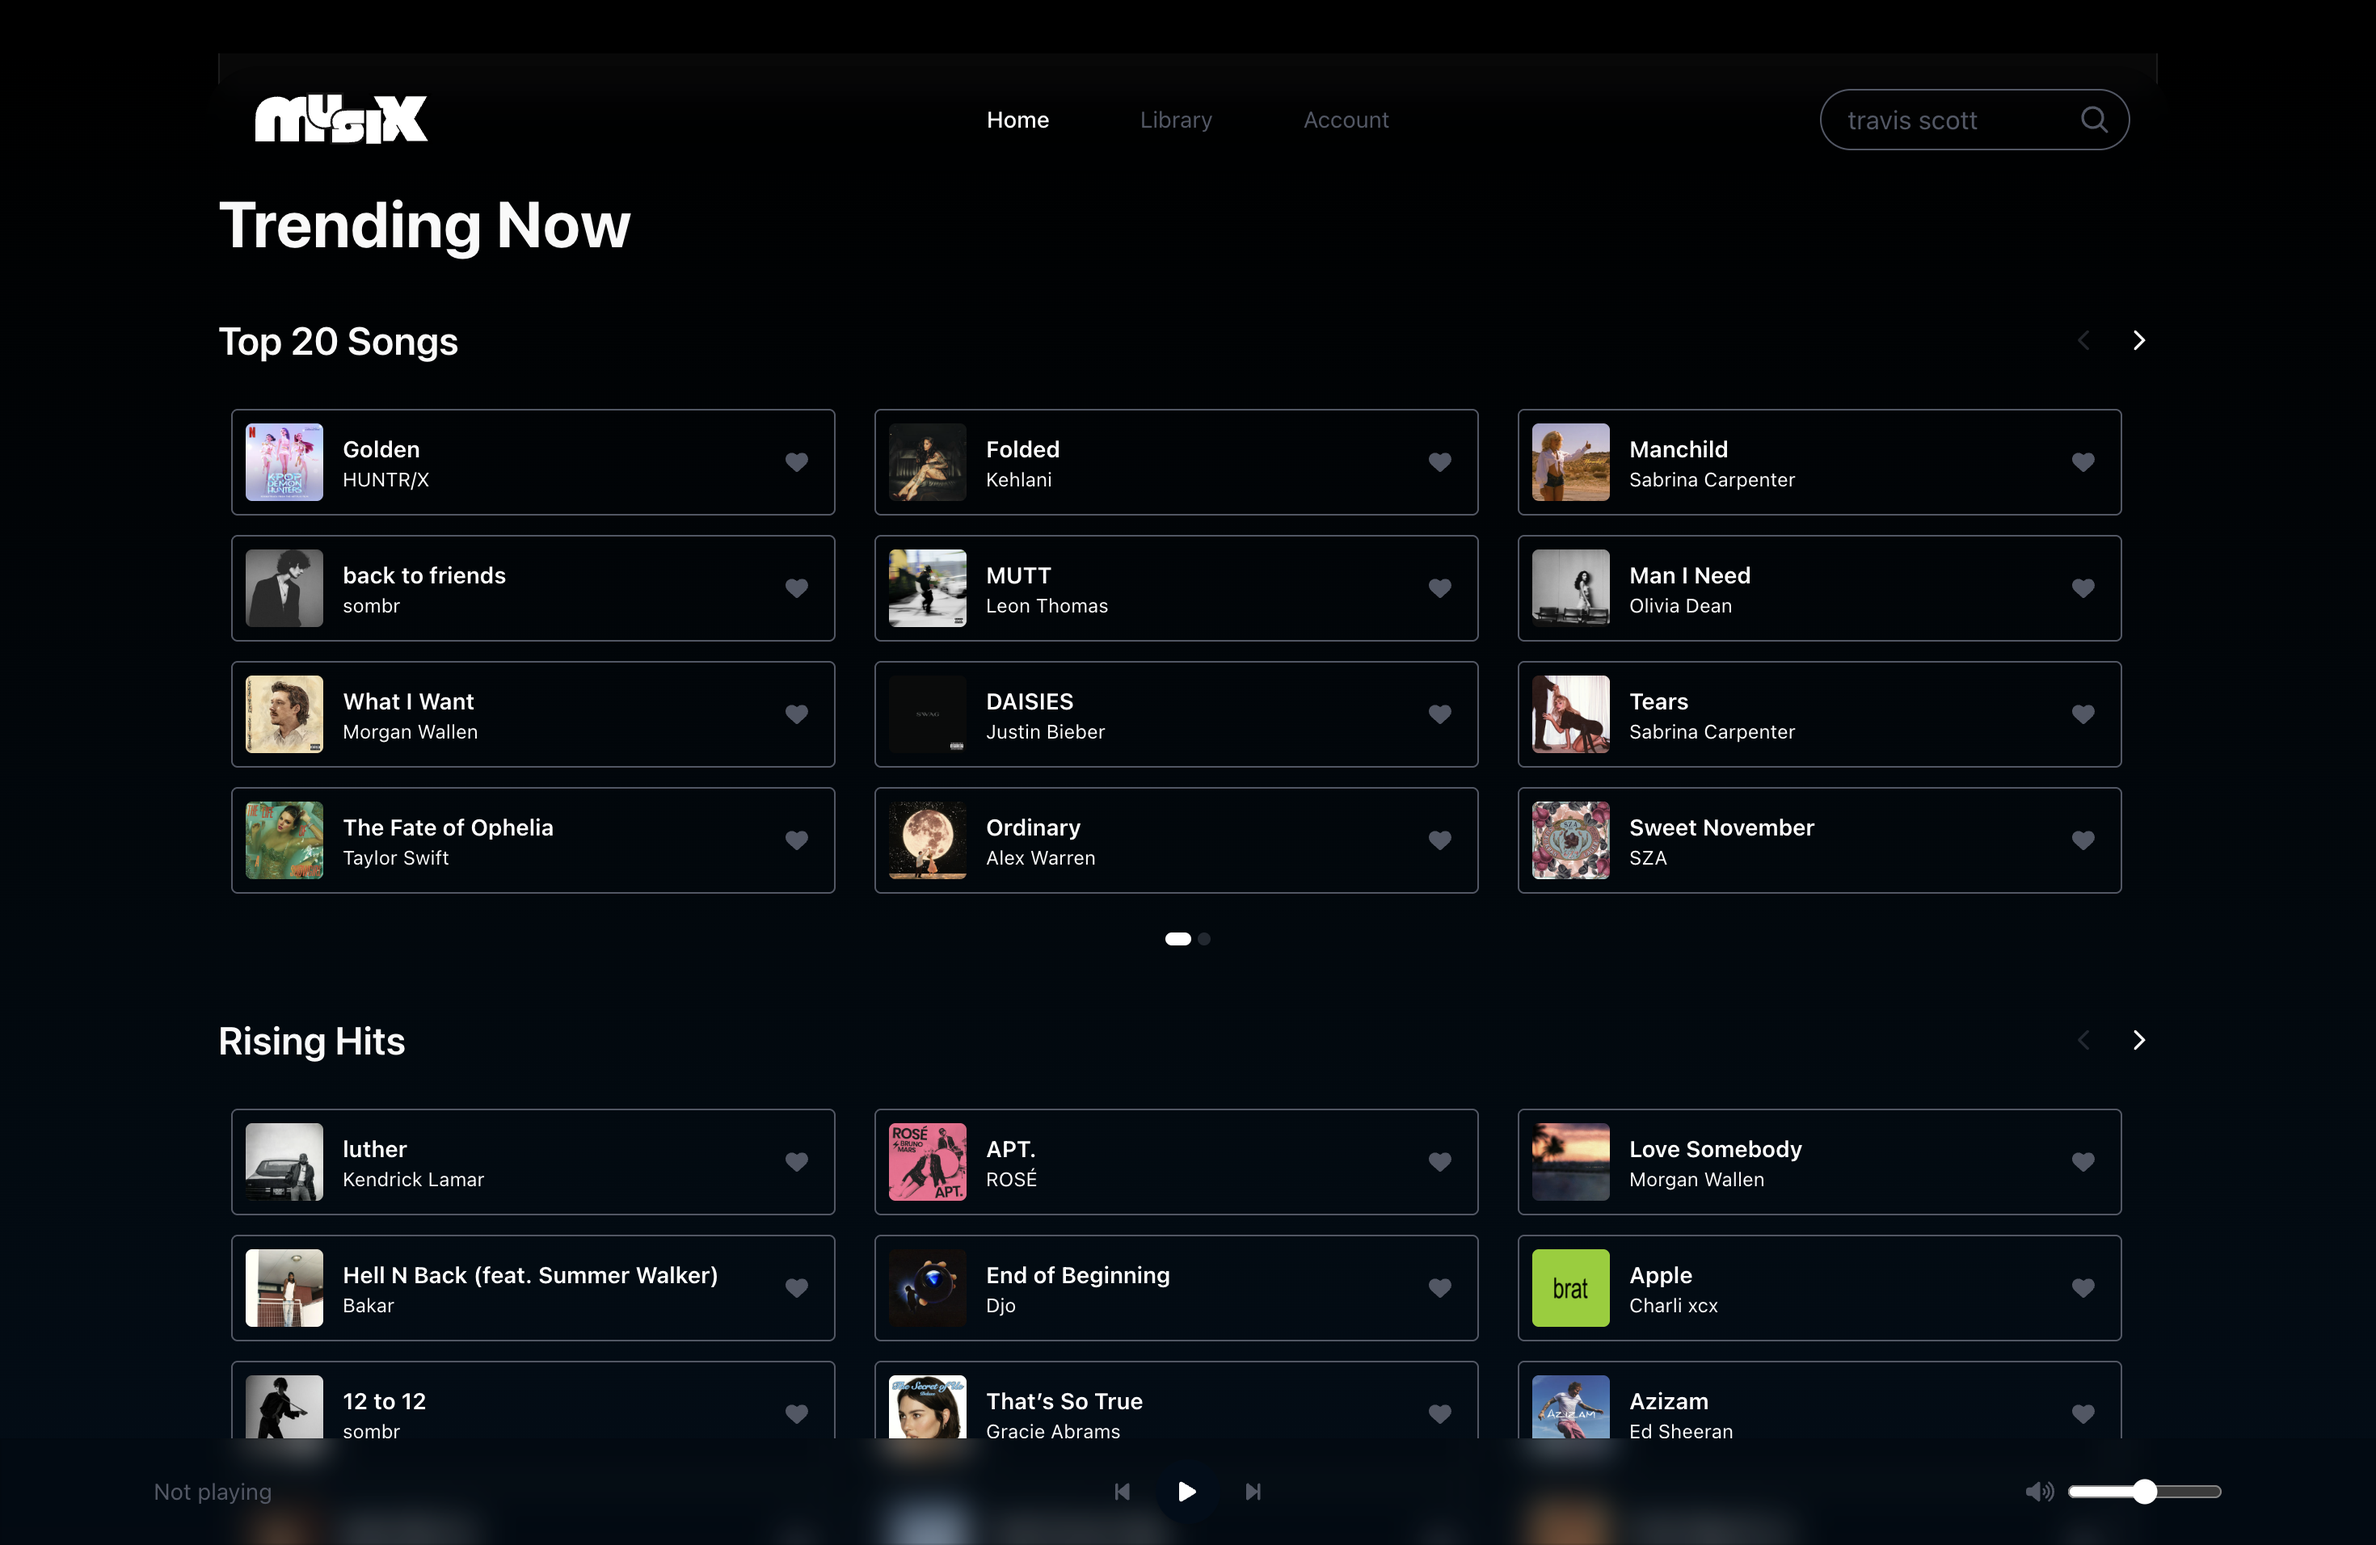
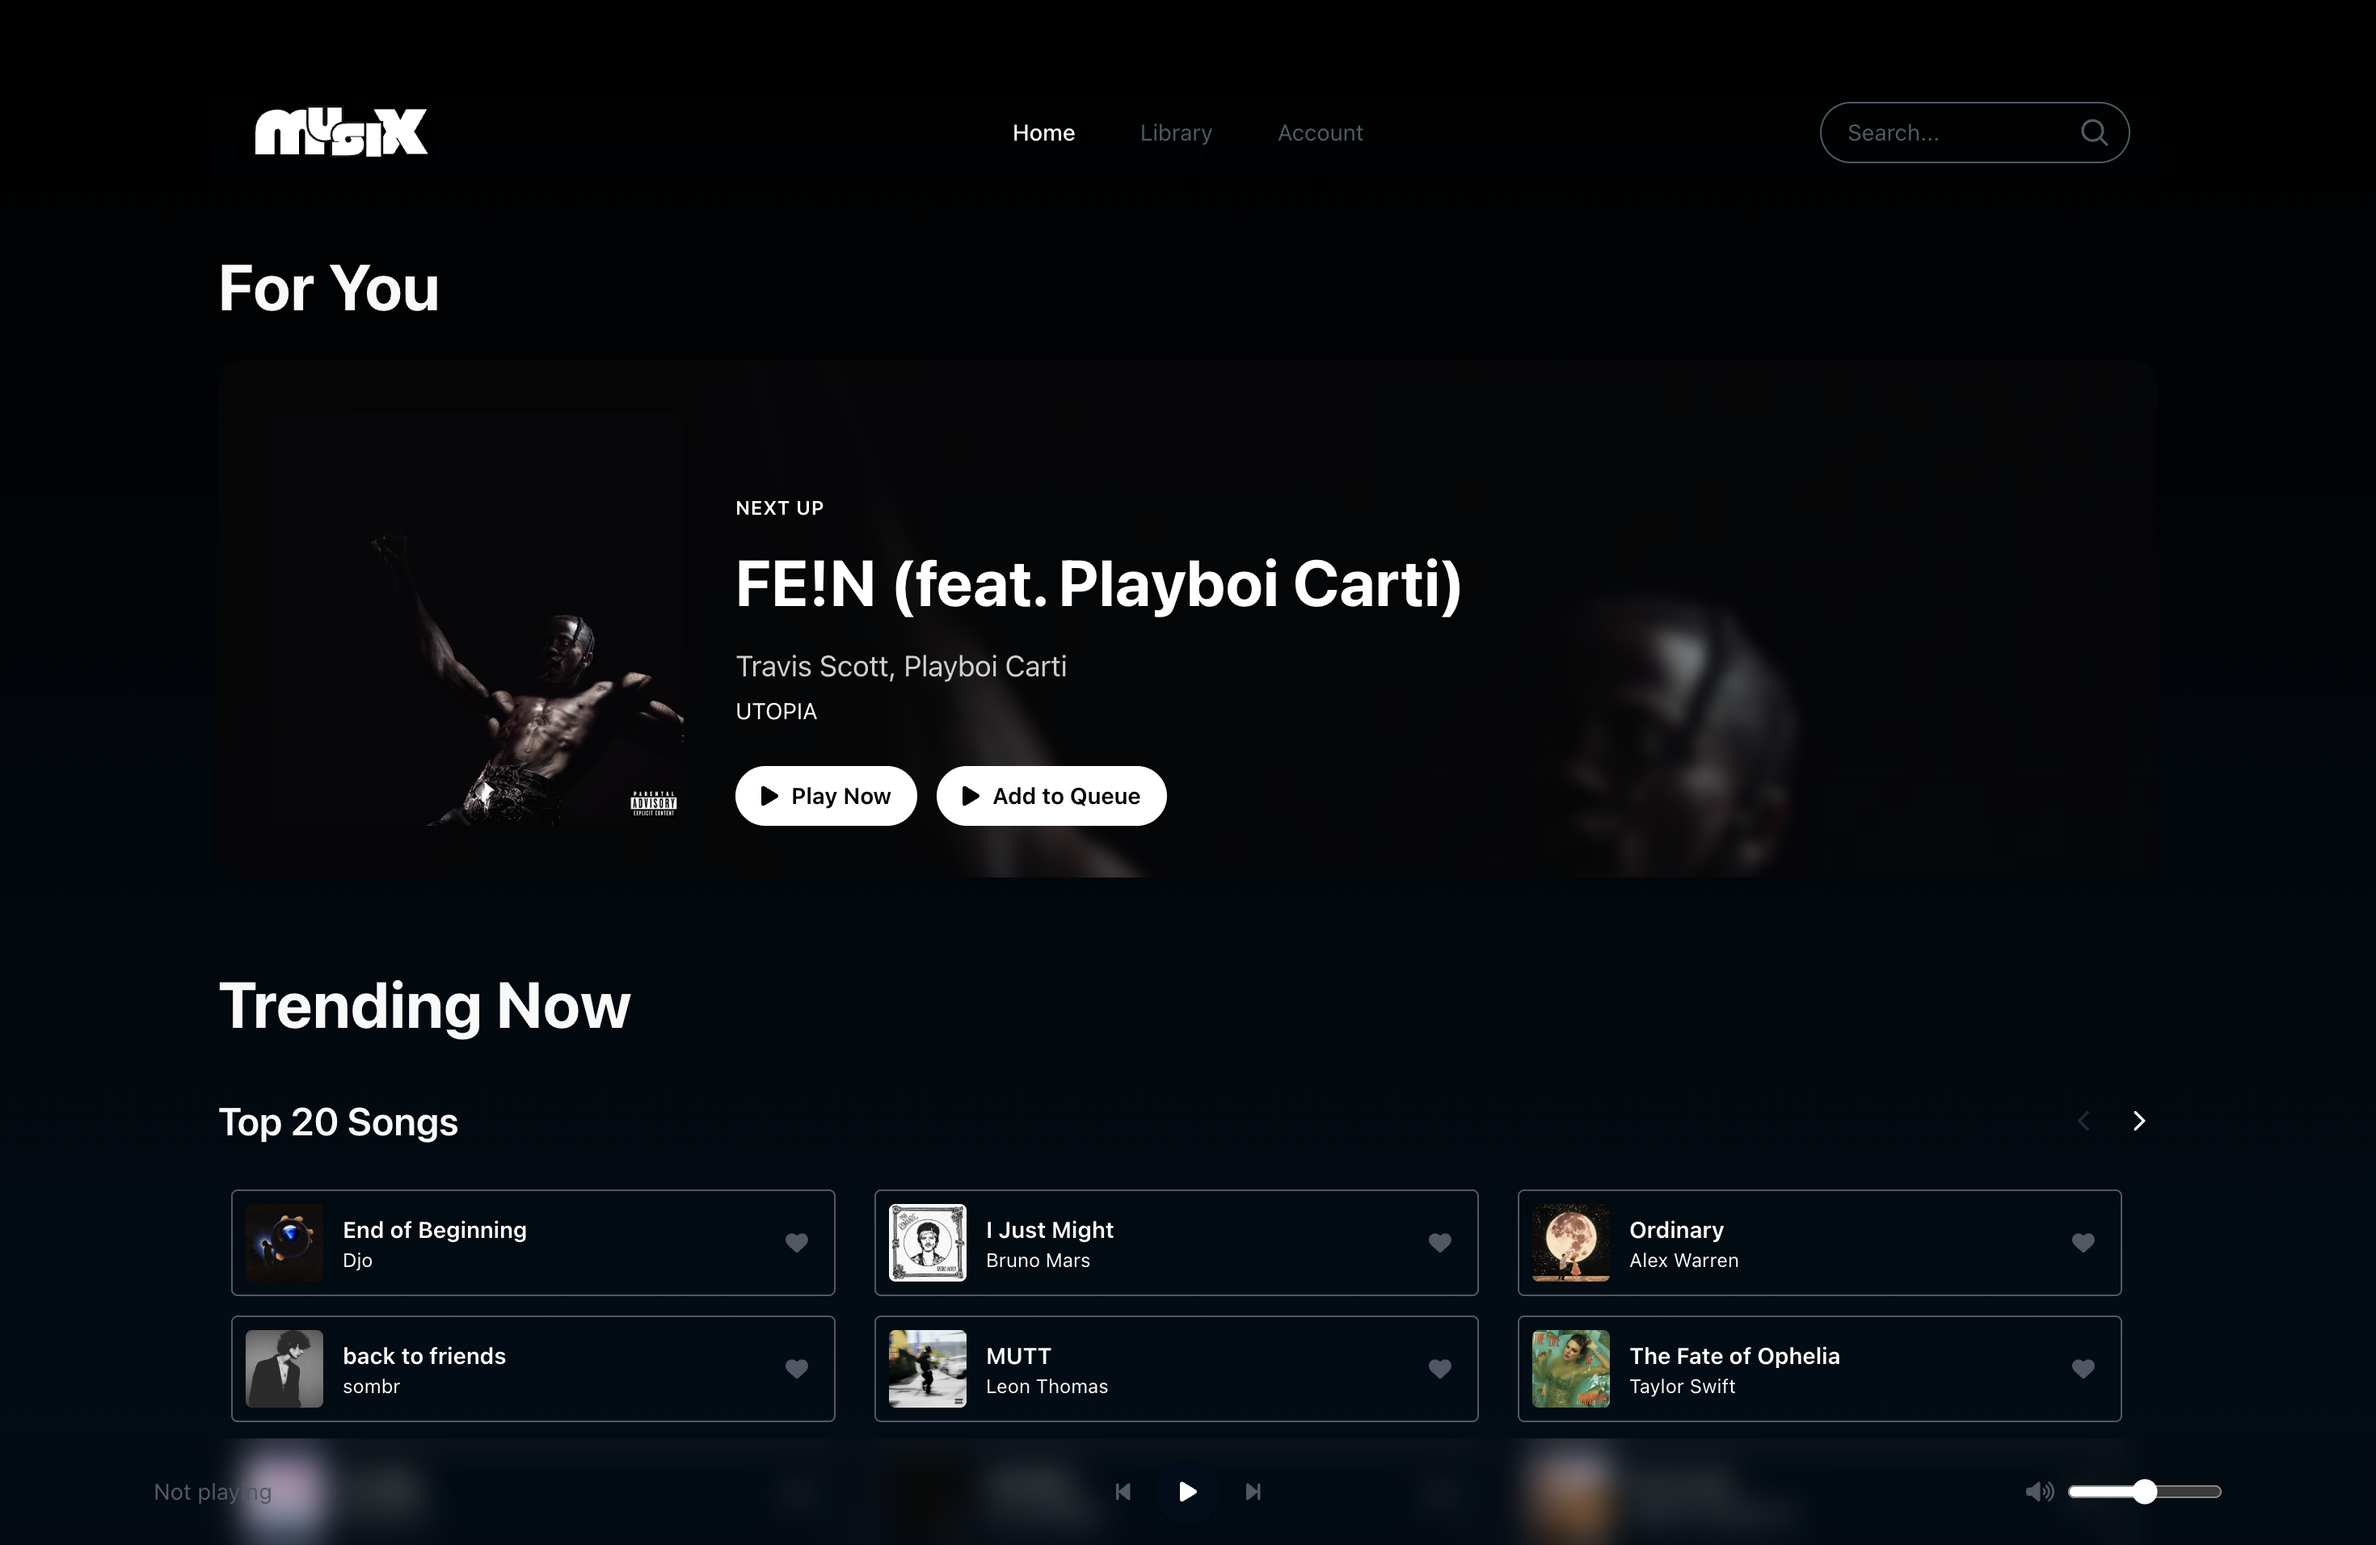
device compatible

diff --git a/app/home/showcase-sm/page.tsx b/app/home/showcase-sm/page.tsx
@@ -4,12 +4,13 @@ import { useRef, useEffect, useState, useCallback } from "react";
 import { useTheme } from 'next-themes';
 import Image from "next/image";
 
+
 const screenshots = [
-  "/screenshot/musix.png",
-  "/screenshot/moviez.png",
-  "/screenshot/gaming-trends.png",
-  "/screenshot/kdrama-analytics.png",
-  "/screenshot/lung-cancer-detection.png",
+  "/screenshots/musix1.png",
+  "/screenshots/moviz1.png",
+  "/screenshots/gaming-trends.png",
+  "/screenshots/kdrama-analytics.png",
+  "/screenshots/lung-cancer-detection.png",
 ];
 
 const screenshotLabels = [
@@ -127,7 +128,7 @@ export default function ShowcaseIpad() {
           />
 
           {/* Screens */}
-          <div className="absolute rounded-2xl w-[88%] h-[95%] sm: w-[94%] h-[90%]  z-0 overflow-hidden bg-black">
+          <div className="absolute rounded-2xl w-[88%] h-[95%] sm: w-[94%] h-[90%]  z-0 overflow-hidden">
             <div
               ref={scrollRef}
               className="w-full h-full flex overflow-x-auto scrollbar-hide snap-x snap-mandatory"
@@ -136,14 +137,14 @@ export default function ShowcaseIpad() {
               {screenshots.map((src, idx) => (
                 <div
                   key={src}
-                  className="relative w-full h-full flex-shrink-0 snap-center"
+                  className="relative h-full flex-shrink-0 snap-center"
                   style={{ minWidth: "100%", minHeight: "100%" }}
                 >
                   <Image
                     src={src}
                     alt={screenshotLabels[idx] ?? "screenshot"}
                     fill
-                    className="contain"
+                    className="contain md:px-12"
                     priority={idx === 0}
                     sizes="(max-width: 768px) 90vw, 700px"
                   />
